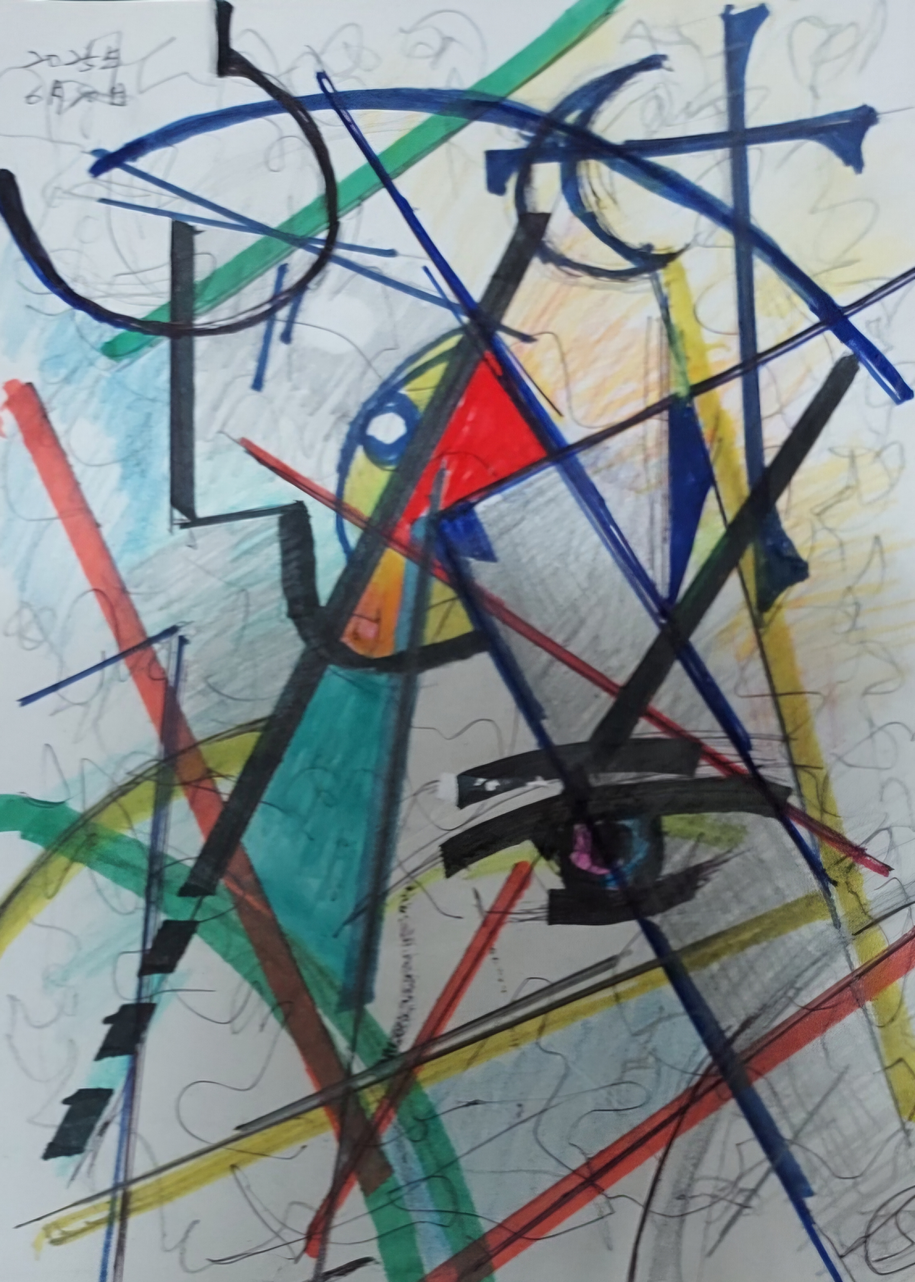
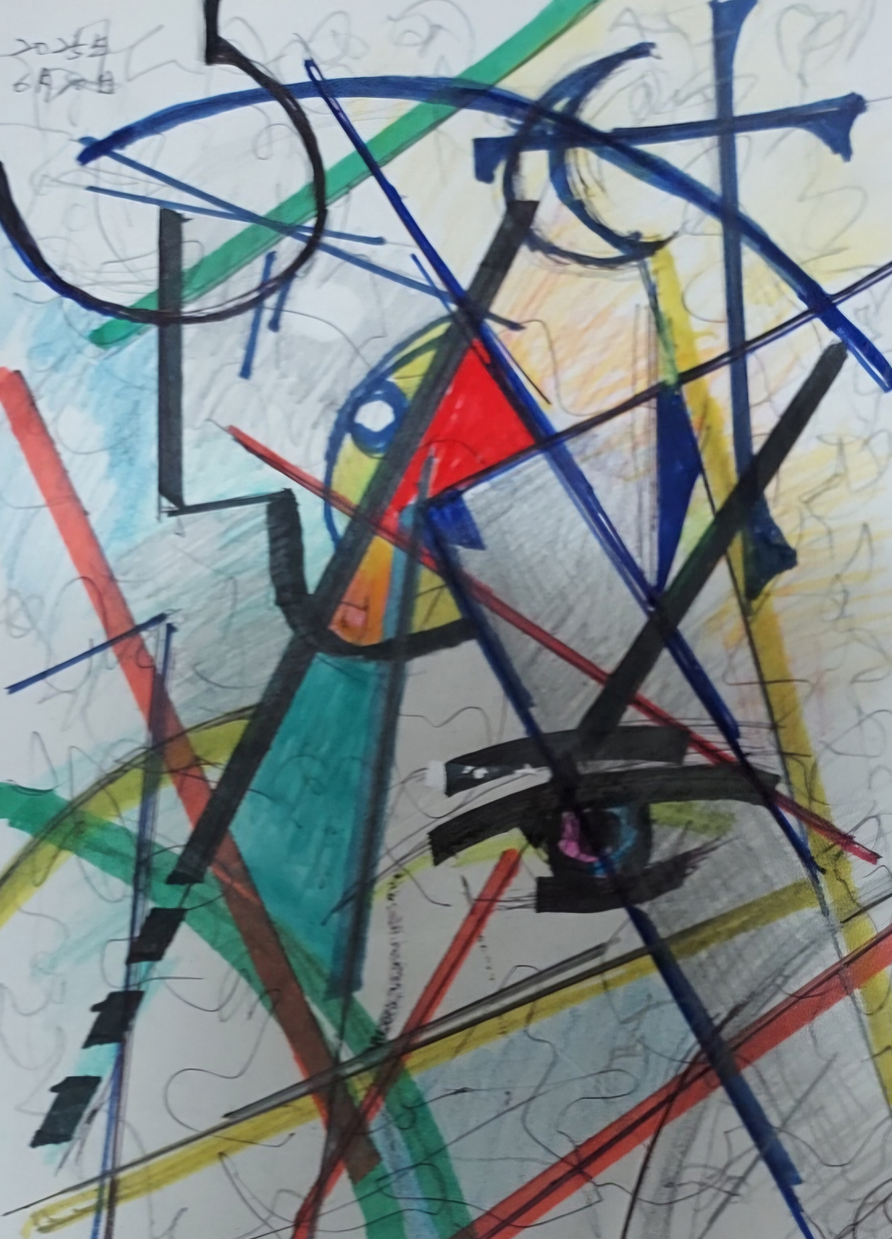
Crop artwork images to remove backgrounds (tables, notebooks, frames)
Remove surrounding elements like glass tables, notebook spirals,
striped fabrics, and wooden frames from all 22 artwork photos
using per-image manual crop coordinates.

diff --git a/scripts/crop_artworks.py b/scripts/crop_artworks.py
@@ -1,0 +1,64 @@
+#!/usr/bin/env python3
+"""Crop artwork images to remove surrounding backgrounds (tables, notebooks, frames)."""
+
+from PIL import Image
+import os
+import shutil
+
+SRC_DIR = "/home/faeqsu10/projects/misook-gallery/public/artworks"
+OUT_DIR = "/home/faeqsu10/projects/misook-gallery/public/artworks_cropped"
+
+os.makedirs(OUT_DIR, exist_ok=True)
+
+# Per-image crop coordinates: (left, upper, right, lower)
+# Phone screenshots (1152x2560) need aggressive cropping
+CROPS = {
+    # --- Phone screenshots with notebook/table backgrounds ---
+    "abstract-color-grid.jpg": (80, 50, 1130, 1950),      # spiral notebook on glass table
+    "abstract-triangles.jpg": (55, 20, 1110, 1530),        # sketchbook on glass table
+    "geometric-lines.jpg": (55, 200, 1030, 1770),          # notebook on striped fabric
+    "prayer-diary.jpg": (25, 10, 1115, 2060),              # diary page (text+drawing = artwork)
+    "prayer-cross.jpg": (25, 15, 1105, 2050),              # diary page similar angle
+    "spiral-vortex.jpg": (40, 20, 1040, 1700),             # notebook on striped fabric
+    "witch-framed.jpg": (240, 420, 900, 1520),             # crop inside wooden frame
+    "woman-under-tree.jpg": (20, 30, 1080, 1830),          # diary/planner page on glass table
+
+    # --- Close-up photos with minor edges ---
+    "abstract-red-green.jpg": (10, 10, 1354, 1470),
+    "bird-in-geometry.jpg": (20, 20, 2210, 2770),
+    "blue-energy.jpg": (30, 30, 2240, 3100),
+    "bold-circles-lines.jpg": (30, 30, 3150, 4580),
+    "charcoal-red-cross.jpg": (15, 15, 1960, 2710),
+    "color-eye-spiral.jpg": (15, 15, 1950, 2550),          # has pencil on it, crop bottom text
+    "color-mosaic.jpg": (5, 5, 948, 1235),
+    "fierce-gaze.jpg": (15, 15, 2630, 3590),
+    "free-composition.jpg": (10, 10, 1055, 1475),
+    "golden-orbit.jpg": (30, 30, 2890, 4370),
+    "madonna-rosary.jpg": (100, 30, 2650, 3950),           # notebook dotted line on left
+    "tension-and-calm.jpg": (10, 10, 1474, 1540),
+    "vivid-triangles.jpg": (10, 10, 969, 1500),
+    "witch.jpg": (15, 25, 2235, 3190),
+}
+
+for filename, crop_box in CROPS.items():
+    src_path = os.path.join(SRC_DIR, filename)
+    out_path = os.path.join(OUT_DIR, filename)
+
+    if not os.path.exists(src_path):
+        print(f"SKIP: {filename} not found")
+        continue
+
+    img = Image.open(src_path)
+    w, h = img.size
+
+    # Clamp crop box to image bounds
+    left = max(0, crop_box[0])
+    upper = max(0, crop_box[1])
+    right = min(w, crop_box[2])
+    lower = min(h, crop_box[3])
+
+    cropped = img.crop((left, upper, right, lower))
+    cropped.save(out_path, quality=95)
+    print(f"OK: {filename} ({w}x{h}) -> ({right-left}x{lower-upper})")
+
+print(f"\nDone! Cropped images saved to {OUT_DIR}")
